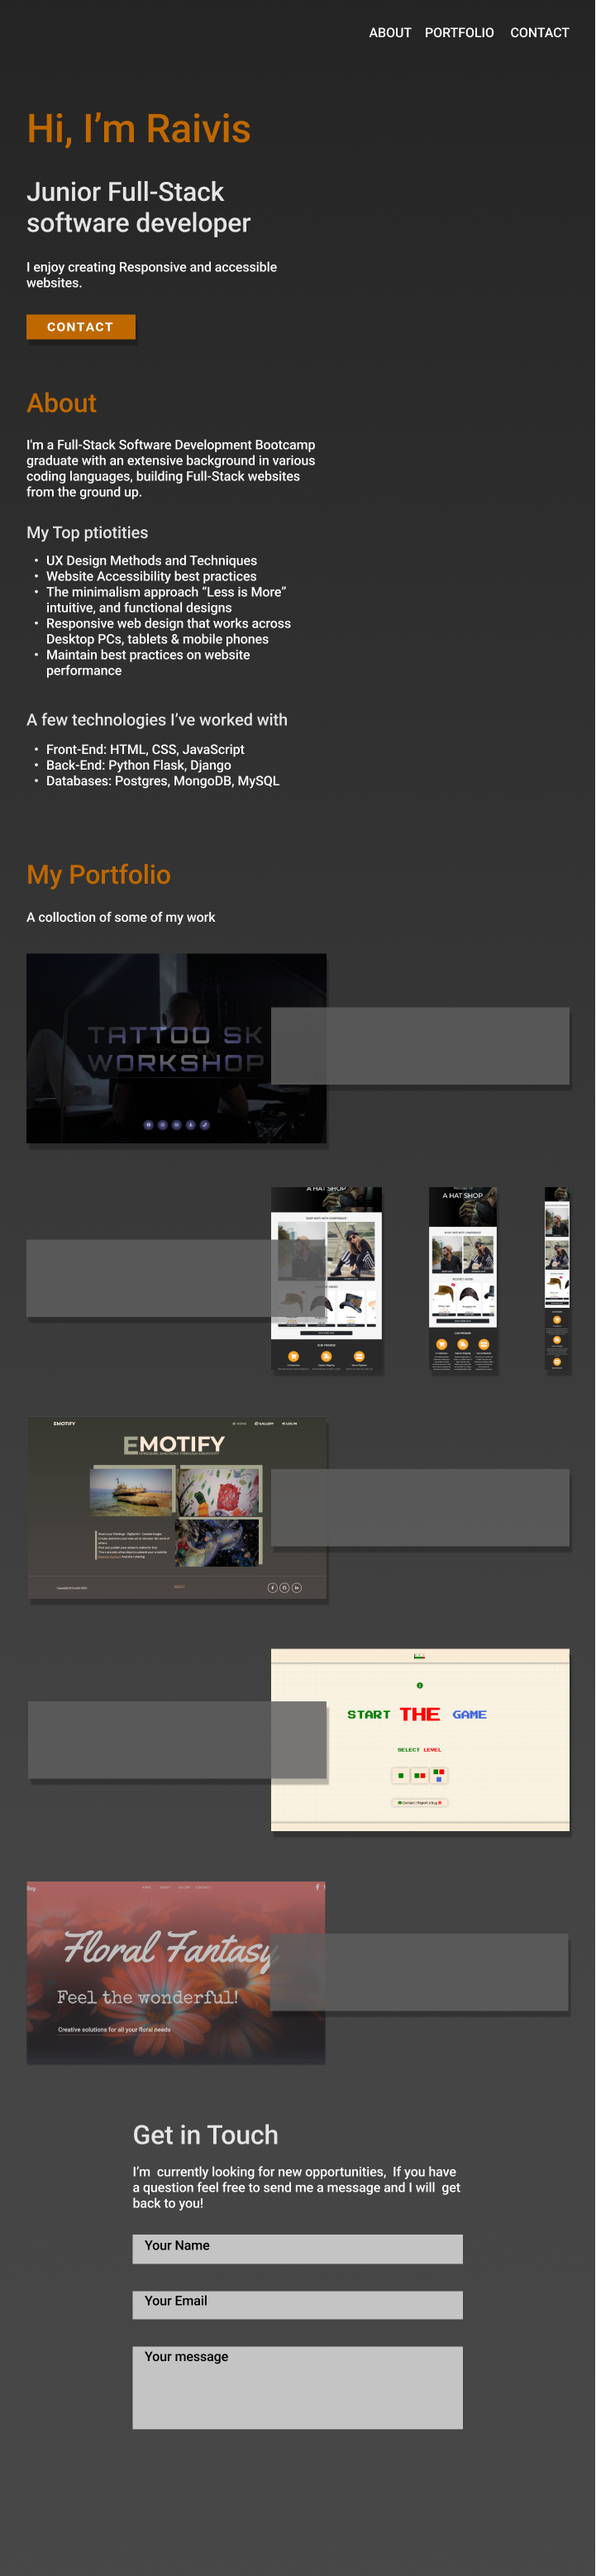
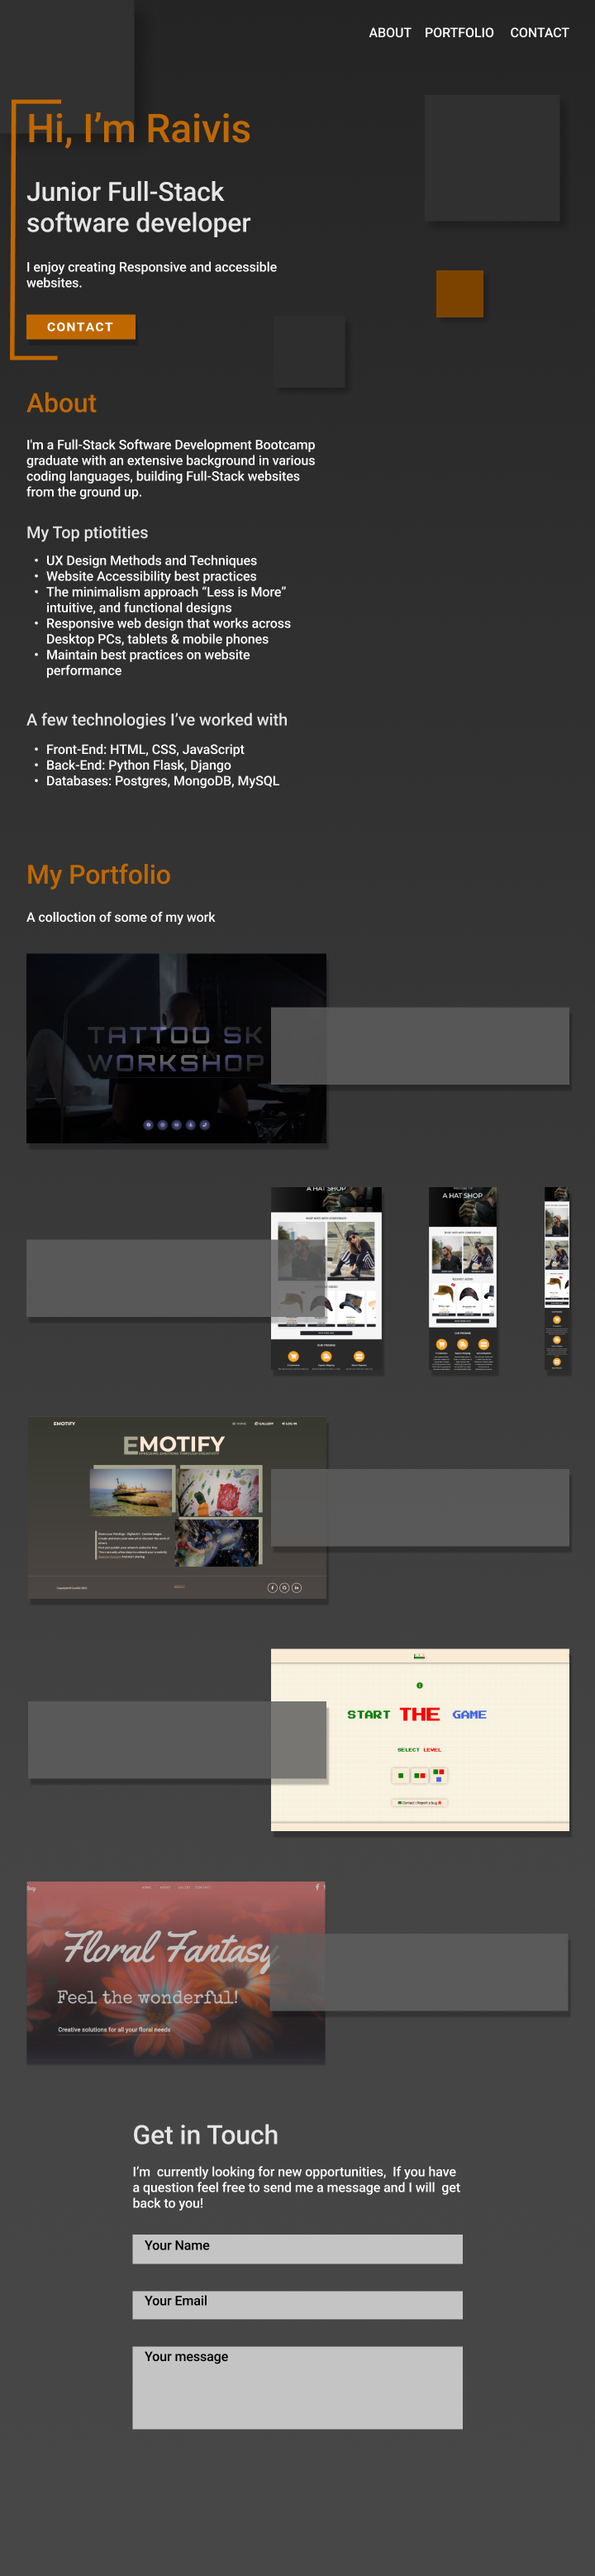
added animations

diff --git a/my-portfolio/src/home/Home.css b/my-portfolio/src/home/Home.css
@@ -4,13 +4,12 @@
   justify-content: center;
 }
 
-.home-content {
-  max-width: 650px;
-  position: relative;
-  padding-left: 24px;
-}
 
 /* Button */
+h1 {
+  position: relative;
+  z-index: 1000;
+}
 
 .MuiButton-root {
   font-size: 1.2rem;
@@ -20,45 +19,42 @@
 }
 
 .box {
-  opacity: 0;
+  animation-timing-function: cubic-bezier(0.4, 0, 0.2, 1);
+  animation-iteration-count: once;
+  animation-direction: normal;
+  animation-fill-mode: forwards;
+  animation-play-state: running;
   position: absolute;
+  opacity: 0;
 }
 
-.box1 {
-  width: 100px;
-  height: 100px;
-  top: 15%;
-  left: 50px;
-}
-
-
-
-.box2 {
-  top: 15%;
-  right: 10%;
-  width: 300px;
-  height: 300px;
-}
-
-
-.box3 {
-  top: 70%;
-  right: 55%;
-  width: 150px;
-  height: 150px;
-
-}
-
-h1{
+.home-content {
+  left: -100%;
+  max-width: 650px;
   position: relative;
+  padding-left: 24px;
   z-index: 1000;
-
 }
 
-.box6 {
-  width: 80px;
-  height: 80px;
-  cursor: pointer;
+.home-content.animated {
+  animation-name: home;
+  animation-duration: 2s;
+}
+
+@keyframes home {
+  0% {
+    left: -100%;
+    opacity: 0;
+  }
+
+  50% {
+    opacity: 0;
+  }
+
+  100% {
+    left: 0;
+    opacity: 1;
+  }
 }
 
 @media screen and (min-width: 2222px) {
@@ -71,8 +67,8 @@ h1{
 }
 
 .box5 {
+  left: -10%;
   top: 0px;
-  left: 0;
   width: 100px;
   height: 108%;
   border-left: 8px solid #b37142;
@@ -80,8 +76,132 @@ h1{
   border-bottom: 8px solid #b37142;
 }
 
+.box5.animated {
+  animation-name: box5;
+  animation-delay: 1s;
+  animation-duration: 2s;
+}
+
+@keyframes box5 {
+  0% {
+    left: -100%;
+    opacity: 0;
+  }
+
+  100% {
+    left: 0;
+    opacity: 1;
+  }
+}
+
+.box3 {
+  top: 110%;
+  width: 150px;
+  height: 150px;
+}
+
+.box3.animated {
+  animation-name: box3;
+  animation-duration: 1.5s;
+  animation-delay: .8s;
+}
+
+@keyframes box3 {
+  0% {
+    top: 110%;
+    right: 55%;
+    opacity: 0;
+  }
+
+  100% {
+    top: 70%;
+    right: 55%;
+    opacity: 1;
+  }
+}
+
+.box1 {
+  left: 50px;
+  width: 100px;
+  height: 100px;
+}
+
+.box1.animated {
+  animation-name: box1;
+  animation-duration: 1.5s;
+  animation-delay: 1s;
+}
+
+@keyframes box1 {
+  0% {
+    top: -100%;
+    opacity: 0;
+  }
+
+  100% {
+    top: 15%;
+    opacity: 1;
+  }
+}
+
+.box2 {
+  right: -50%;
+  top: 15%;
+  width: 300px;
+  height: 300px;
+}
+
+.box2.animated {
+  animation-name: box2;
+  animation-duration: 2s;
+  animation-delay: .5s;
+}
+
+@keyframes box2 {
+  0% {
+    right: -20%;
+    opacity: 0;
+  }
+
+  100% {
+    right: 10%;
+    opacity: 1;
+  }
+}
+
+.box6 {
+  top: 68%;
+  left: 100%;
+  width: 80px;
+  height: 80px;
+  cursor: pointer;
+}
+
+.box6.animated {
+  animation-name: box6;
+  animation-duration: 2s;
+  animation-delay: 1s;
+}
+
+@keyframes box6 {
+  0% {
+    left: 100%;
+    opacity: 0;
+  }
+
+  50% {
+    opacity: 0;
+  }
+
+  100% {
+    left: 60%;
+    opacity: 1;
+  }
+}
+
+
 @media screen and (max-width: 640px) {
   .box5 {
-   height: 105%;
+    height: 105%;
   }
 }

diff --git a/my-portfolio/src/home/Home.js b/my-portfolio/src/home/Home.js
@@ -14,8 +14,7 @@ import "./Home.css";
 
 //create Fade effect for the element
 const fadeIn = (element, duration) => {
-  element.style.transition = `opacity ${duration}ms ease-in-out`;
-  element.style.opacity = 1;
+  element.classList.add('animated')
 };
 
 const getDuration = () => {
@@ -27,7 +26,6 @@ const getElements = (element) => {
 };
 
 const generateRandomAnimation = (element) => {
-  console.log("generateRandomAnimation");
   let elements = getElements(element);
   for (let i = 0; i < elements.length; i++) {
     fadeIn(elements[i], getDuration());
@@ -48,7 +46,6 @@ function HomeApp() {
 
   useEffect(() => {
     [...document.getElementsByClassName("box")].forEach((element) => {
-      element.style.opacity = 0;
         setTimeout(() => {
           generateRandomAnimation("box");
         }, 50);
@@ -56,18 +53,16 @@ function HomeApp() {
   }, []);
 
   const handleScroll = () => {
-    if (inViewRef.current.getBoundingClientRect().bottom + 300 < window.innerHeight) {
+    if (inViewRef.current.getBoundingClientRect().bottom + 500 < window.innerHeight) {
       setIsVisible(false);
       [...document.getElementsByClassName("box")].forEach((element) => {
-        element.style.opacity = 0;
+        element.classList.remove("animated");
       });
     } else {
       setIsVisible(true);
       generateRandomAnimation("box");
     }
   };
-  console.log(window.innerHeight);
-  console.log("isVisible", isVisible);
 
   useEffect(() => {
     window.addEventListener("scroll", handleScroll);
@@ -87,7 +82,6 @@ function HomeApp() {
     <Container
       id="back-to-top-anchor"
       ref={inViewRef}
-    
     >
       <Box id="navigation">
         <Nav />

diff --git a/my-portfolio/src/components/runAwayBtn/RunAwayBox.js b/my-portfolio/src/components/runAwayBtn/RunAwayBox.js
@@ -6,14 +6,10 @@ setTimeout (() => {
   let height = window.innerHeight - 80;
   let width = window.innerWidth - 80;
 
-  button.style.top = "68%";
-  button.style.left = "60%";
-
   const animateMove = (element) => {
     let top = Math.random() * height;
     let left = Math.random() * width;
     let duration = 1000;
-
     element.style.top = top + "px";
     element.style.left = left + "px";
     element.style.transition = `top ${duration}ms ease-in-out, left ${duration}ms ease-in-out, opacity ${duration}ms ease-in-out`;

diff --git a/my-portfolio/src/colorContext.js b/my-portfolio/src/colorContext.js
@@ -21,6 +21,7 @@ export const ColorContextProvider = (props) => {
     const toggleColorMode = () => {
         setColorMode(colorMode === "dark" ? "light" : "dark");
         setColorModeStorage(colorMode === "dark" ? "light" : "dark");
+        window.location.reload(true);
     };
 
     if (colorModeStorage !== colorMode) {

diff --git a/my-portfolio/src/index.css b/my-portfolio/src/index.css
@@ -6,7 +6,8 @@ body {
   -webkit-font-smoothing: antialiased;
   -moz-osx-font-smoothing: grayscale;
 
-  background-color: #141415,
+  background-color: #141415;
+  overflow-x: hidden;
   
 }
 

diff --git a/my-portfolio/src/App.css b/my-portfolio/src/App.css
@@ -3,5 +3,4 @@
 #projects,
 #contact {
   min-height: 100vh;
-  overflow: hidden;
 }
